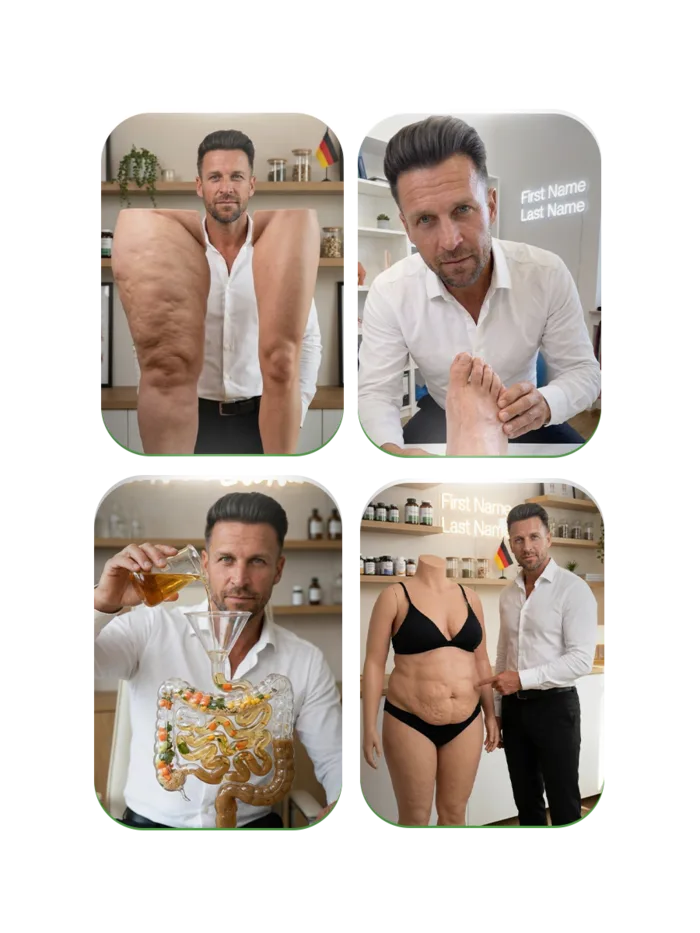
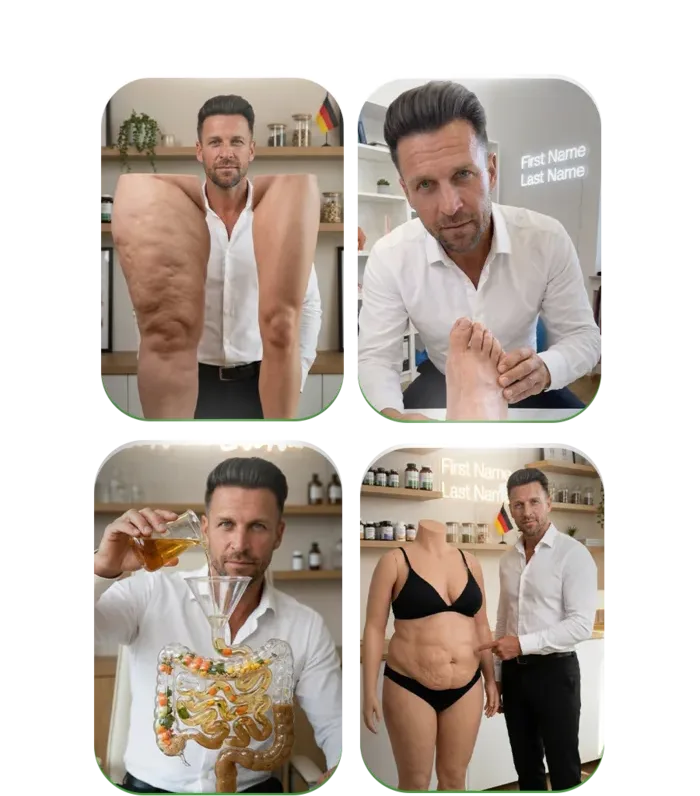
Stand 60b6c16: Entwurf B auf der Startseite: vier Boxen mit Zahl, Leistung und großer freigestellter Grafik

diff --git a/index.html b/index.html
@@ -145,11 +145,35 @@
       </a>
     </section><!--LIVE:ende-->
 
-    <section class="stats stats-oben" id="zahlen" aria-labelledby="zahlen-titel">
+    <section class="zahlen" id="zahlen" aria-labelledby="zahlen-titel">
       <h2 id="zahlen-titel" class="zahlen-titel">Unsere Zahlen</h2>
-      <div class="stat reveal"><strong class="verlauf">900 Mio.+</strong><p>Aufrufe für Kunden</p></div>
-      <div class="stat reveal"><strong class="verlauf-mint">3 Mio.+</strong><p>neu gewonnene Follower für Kunden</p></div>
-      <div class="stat reveal"><strong class="verlauf">3.000+</strong><p>Produktionen für Creator, Marken und Unternehmen</p></div>
+      <div class="zahlen-boxen">
+        <article class="reveal">
+          <img src="assets/module/schnitt-frei.webp" width="700" height="919" alt="Schnittprogramm mit Zeitleiste, Untertiteln und B-Roll-Spuren" loading="lazy" decoding="async">
+          <strong>3.000+</strong>
+          <h3>Produktionen</h3>
+          <p>Dreh, Schnitt und feste Formate für Creator, Marken und Unternehmen.</p>
+        </article>
+        <article class="reveal">
+          <img src="assets/module/clips-frei.webp" width="700" height="796" alt="Vier Videoclips mit demselben Sprecher, ohne Dreh erzeugt" loading="lazy" decoding="async">
+          <strong>900 Mio.+</strong>
+          <h3>Aufrufe für Kunden</h3>
+          <p>Reels, TikToks und Shorts, die der Algorithmus wirklich ausspielt.</p>
+        </article>
+        <article class="reveal">
+          <img src="assets/module/dm-chat-frei.webp" width="600" height="693" alt="Chatverlauf: die KI beantwortet eine Anfrage und bestätigt einen Termin" loading="lazy" decoding="async">
+          <strong>3 Mio.+</strong>
+          <h3>Neue Follower</h3>
+          <p>Aus Zuschauern werden Anfragen: DM-Setting mit KI und Terminbuchung.</p>
+        </article>
+        <article class="reveal">
+          <img src="assets/module/ablauf-frei.webp" width="700" height="537" alt="Sechs nummerierte Schritte von der Aufnahme bis zum gebuchten Termin" loading="lazy" decoding="async">
+          <strong>6 Schritte</strong>
+          <h3>Vom Video zum Termin</h3>
+          <p>Aufnehmen, schneiden, posten, antworten, qualifizieren, buchen.</p>
+        </article>
+      </div>
+      <p class="quelle">Zahlen laut Referenzportfolio 2026, Aufrufe fortlaufend hochgerechnet.</p>
     </section>
 
     <section class="viral" id="viral" aria-labelledby="viral-title">
@@ -399,19 +423,19 @@
         <li><b>Du gibst frei, wir posten</b><span>Auf Instagram, TikTok und YouTube, in festem Rhythmus.</span></li>
       </ol>
       <div class="ki-grid" tabindex="0" role="region" aria-label="Leistungen der KI-Abteilung">
-        <article class="ki-karte reveal"><img class="ki-bild" src="assets/module/clips-frei.webp" width="700" height="1200" alt="Vier Videoclips mit demselben Sprecher, komplett ohne Dreh erzeugt" loading="lazy" decoding="async"><h3>KI-Videos ohne Kamera</h3>
+        <article class="ki-karte reveal"><img class="ki-bild" src="assets/module/clips-frei.webp" width="700" height="796" alt="Vier Videoclips mit demselben Sprecher, komplett ohne Dreh erzeugt" loading="lazy" decoding="async"><h3>KI-Videos ohne Kamera</h3>
           <p>Mit KI-Sprecherstimme, Avatar, Animation und B-Roll. Stil und Stimme passen zu deiner Marke.</p>
           <ul><li>Werbeanzeigen und Produktclips</li><li>Erklärvideos für dein Angebot</li><li>Serienformate ohne Gesicht</li></ul>
         </article>
-        <article class="ki-karte reveal"><img class="ki-bild" src="assets/module/dm-chat-frei.webp" width="700" height="1200" alt="Chatverlauf: die KI beantwortet eine Anfrage und bestätigt einen Termin am Donnerstag" loading="lazy" decoding="async"><h3>DM-Setting mit KI</h3>
+        <article class="ki-karte reveal"><img class="ki-bild" src="assets/module/dm-chat-frei.webp" width="600" height="693" alt="Chatverlauf: die KI beantwortet eine Anfrage und bestätigt einen Termin am Donnerstag" loading="lazy" decoding="async"><h3>DM-Setting mit KI</h3>
           <p>Kommentare und Nachrichten werden in Sekunden beantwortet und vorqualifiziert.</p>
           <ul><li>Antwort rund um die Uhr</li><li>3 bis 5 Fragen zur Qualifizierung</li><li>Terminlink für alle, die passen</li></ul>
         </article>
-        <article class="ki-karte reveal"><img class="ki-bild" src="assets/module/schnitt-frei.webp" width="700" height="1200" alt="Schnittprogramm mit Zeitleiste, Untertiteln und B-Roll-Spuren" loading="lazy" decoding="async"><h3>Content-Automatisierung</h3>
+        <article class="ki-karte reveal"><img class="ki-bild" src="assets/module/schnitt-frei.webp" width="700" height="919" alt="Schnittprogramm mit Zeitleiste, Untertiteln und B-Roll-Spuren" loading="lazy" decoding="async"><h3>Content-Automatisierung</h3>
           <p>Aus einem Video werden Posts, Untertitel, Newsletter und Blogartikel.</p>
           <ul><li>Transkription und Untertitel</li><li>Texte für LinkedIn und Newsletter</li><li>Clips aus langen Videos</li></ul>
         </article>
-        <article class="ki-karte reveal"><img class="ki-bild" src="assets/module/ablauf-frei.webp" width="700" height="1200" alt="Sechs nummerierte Schritte von der Aufnahme bis zum gebuchten Termin" loading="lazy" decoding="async"><h3>Automatisierte Abläufe</h3>
+        <article class="ki-karte reveal"><img class="ki-bild" src="assets/module/ablauf-frei.webp" width="700" height="537" alt="Sechs nummerierte Schritte von der Aufnahme bis zum gebuchten Termin" loading="lazy" decoding="async"><h3>Automatisierte Abläufe</h3>
           <p>Anfragen landen automatisch in deiner Pipeline, mit Terminbuchung und Erinnerung.</p>
           <ul><li>Lead-Pipeline mit Quelle pro Video</li><li>Terminbuchung mit Erinnerungen</li><li>Monatsreport mit Anfragen und Abschlüssen</li></ul>
         </article>
@@ -470,7 +494,7 @@
         <div class="plan-zeile r4"><b>Schnitt</b><div class="bahn"><span class="balken">Schnitt &amp; Feedback</span></div></div>
         <div class="plan-zeile r5"><b>Posting</b><div class="bahn"><span class="balken">Veröffentlichen &amp; lernen</span></div></div>
       </div><!--ABLAUF:ende-->
-          <img class="ablauf-bild" src="assets/module/ablauf-frei.webp" width="700" height="933" alt="Sechs nummerierte Schritte: aufnehmen, schneiden, veröffentlichen, Anfrage, Nachricht beantworten, Termin buchen" loading="lazy" decoding="async">
+          <img class="ablauf-bild" src="assets/module/ablauf-frei.webp" width="700" height="537" alt="Sechs nummerierte Schritte: aufnehmen, schneiden, veröffentlichen, Anfrage, Nachricht beantworten, Termin buchen" loading="lazy" decoding="async">
     </section>
 
     <section class="nf-block" id="wer" aria-labelledby="wer-title">

diff --git a/entwuerfe/index.html b/entwuerfe/index.html
@@ -29,19 +29,19 @@
       </div>
       <div class="a-boxen">
         <article>
-          <img src="/assets/module/schnitt-frei.webp" width="700" height="1200" alt="Schnittprogramm mit Zeitleiste">
+          <img src="/assets/module/schnitt-frei.webp" width="700" height="919" alt="Schnittprogramm mit Zeitleiste">
           <h3>Produktion</h3>
           <p>Strategie, Skript, Drehtag, Schnitt für Instagram, TikTok und YouTube.</p>
           <ul><li>Dreh bei dir vor Ort</li><li>Hooks und Skripte</li><li>Schnitt mit Untertiteln</li></ul>
         </article>
         <article>
-          <img src="/assets/module/clips-frei.webp" width="700" height="1200" alt="Vier Videoclips ohne Dreh">
+          <img src="/assets/module/clips-frei.webp" width="700" height="796" alt="Vier Videoclips ohne Dreh">
           <h3>KI-Videos</h3>
           <p>Videos ohne Kamera, mit Stimme, Avatar und B-Roll in deinem Stil.</p>
           <ul><li>Werbeanzeigen und Produktclips</li><li>Erklärvideos</li><li>Serien ohne Gesicht</li></ul>
         </article>
         <article>
-          <img src="/assets/module/dm-chat-frei.webp" width="700" height="1200" alt="Chat mit Terminbuchung">
+          <img src="/assets/module/dm-chat-frei.webp" width="600" height="693" alt="Chat mit Terminbuchung">
           <h3>Anfragen und Termine</h3>
           <p>DM-Setting mit KI, Terminbuchung und Pipeline mit Quelle je Video.</p>
           <ul><li>Antwort in Sekunden</li><li>Qualifizierung in 3 bis 5 Fragen</li><li>Terminlink für passende Anfragen</li></ul>
@@ -54,25 +54,25 @@
       <p class="entwurf-marke">Entwurf B · Vier Boxen, Zahl steht in der Box</p>
       <div class="b-boxen">
         <article>
-          <img src="/assets/module/schnitt-frei.webp" width="700" height="1200" alt="Schnittprogramm mit Zeitleiste">
+          <img src="/assets/module/schnitt-frei.webp" width="700" height="919" alt="Schnittprogramm mit Zeitleiste">
           <strong>3.000+</strong>
           <h3>Produktionen</h3>
           <p>Dreh, Schnitt und Formate für Creator, Marken und Unternehmen.</p>
         </article>
         <article>
-          <img src="/assets/module/clips-frei.webp" width="700" height="1200" alt="Vier Videoclips ohne Dreh">
+          <img src="/assets/module/clips-frei.webp" width="700" height="796" alt="Vier Videoclips ohne Dreh">
           <strong>900 Mio.+</strong>
           <h3>Aufrufe für Kunden</h3>
           <p>Reels, TikToks und Shorts, die im Feed ausgespielt werden.</p>
         </article>
         <article>
-          <img src="/assets/module/dm-chat-frei.webp" width="700" height="1200" alt="Chat mit Terminbuchung">
+          <img src="/assets/module/dm-chat-frei.webp" width="600" height="693" alt="Chat mit Terminbuchung">
           <strong>24/7</strong>
           <h3>DM-Setting mit KI</h3>
           <p>Jede Anfrage wird sofort beantwortet und qualifiziert.</p>
         </article>
         <article>
-          <img src="/assets/module/ablauf-frei.webp" width="700" height="1200" alt="Sechs Schritte von der Aufnahme bis zum Termin">
+          <img src="/assets/module/ablauf-frei.webp" width="700" height="537" alt="Sechs Schritte von der Aufnahme bis zum Termin">
           <strong>6 Schritte</strong>
           <h3>Vom Video zum Termin</h3>
           <p>Aufnehmen, schneiden, posten, antworten, qualifizieren, buchen.</p>
@@ -92,10 +92,10 @@
           <p class="c-quelle">Laut Referenzportfolio 2026</p>
         </div>
         <div class="c-boxen">
-          <article><img src="/assets/module/schnitt-frei.webp" width="700" height="1200" alt="Schnittprogramm"><div><h3>Dreh und Schnitt</h3><p>Ein Drehtag, fertige Videos für drei Plattformen.</p></div></article>
-          <article><img src="/assets/module/clips-frei.webp" width="700" height="1200" alt="Vier Clips"><div><h3>KI-Videos</h3><p>Ohne Kamera, mit Stimme und Avatar in deinem Stil.</p></div></article>
-          <article><img src="/assets/module/dm-chat-frei.webp" width="700" height="1200" alt="Chat mit Terminbuchung"><div><h3>DM-Setting</h3><p>Antwort in Sekunden, Termin direkt gebucht.</p></div></article>
-          <article><img src="/assets/module/ablauf-frei.webp" width="700" height="1200" alt="Sechs Schritte"><div><h3>Ablauf</h3><p>Sechs Schritte vom Video bis zum Termin im Kalender.</p></div></article>
+          <article><img src="/assets/module/schnitt-frei.webp" width="700" height="919" alt="Schnittprogramm"><div><h3>Dreh und Schnitt</h3><p>Ein Drehtag, fertige Videos für drei Plattformen.</p></div></article>
+          <article><img src="/assets/module/clips-frei.webp" width="700" height="796" alt="Vier Clips"><div><h3>KI-Videos</h3><p>Ohne Kamera, mit Stimme und Avatar in deinem Stil.</p></div></article>
+          <article><img src="/assets/module/dm-chat-frei.webp" width="600" height="693" alt="Chat mit Terminbuchung"><div><h3>DM-Setting</h3><p>Antwort in Sekunden, Termin direkt gebucht.</p></div></article>
+          <article><img src="/assets/module/ablauf-frei.webp" width="700" height="537" alt="Sechs Schritte"><div><h3>Ablauf</h3><p>Sechs Schritte vom Video bis zum Termin im Kalender.</p></div></article>
         </div>
       </div>
     </section>

diff --git a/funnel.css b/funnel.css
@@ -837,9 +837,23 @@ body:has([data-branchen-filter]) .lst-anwendung dd{color:#e6e6ec;font-size:.98re
 .fehlerseite-links{display:flex;flex-wrap:wrap;gap:12px;margin-top:8px}
 
 /* Alis Modulgrafiken in der KI-Abteilung und im Ablauf */
-.ki-karte .ki-bild{width:100%;height:300px;object-fit:contain;object-position:center bottom;margin:-10px 0 18px;filter:drop-shadow(0 18px 40px rgba(0,0,0,.55))}
+.ki-karte .ki-bild{width:100%;height:210px;object-fit:contain;object-position:center bottom;margin:-10px 0 18px;filter:drop-shadow(0 18px 40px rgba(0,0,0,.55))}
 .roadmap{position:relative}
 .ablauf-bild{display:block;width:min(280px,70%);height:auto;margin:28px auto 0}
 .zahlen-titel{width:var(--wrap);margin:0 auto 22px;font-size:clamp(1.6rem,3vw,2.2rem);letter-spacing:-.03em}
 
-@media (max-width:640px){.ki-karte .ki-bild{height:230px}}
+@media (max-width:640px){.ki-karte .ki-bild{height:180px}}
+
+/* Zahlen und Leistungen in vier Boxen (Entwurf B, Alis Auswahl) */
+.zahlen{width:var(--wrap);margin:0 auto;padding:56px 0 40px}
+.zahlen-titel{font-size:clamp(1.8rem,3.4vw,2.6rem);letter-spacing:-.035em;margin-bottom:28px}
+.zahlen-boxen{display:grid;grid-template-columns:repeat(4,minmax(0,1fr));gap:16px}
+.zahlen-boxen article{padding:24px 22px 26px;border:1px solid var(--line);border-radius:22px;background:radial-gradient(ellipse 95% 55% at 50% 0%,rgba(168,117,255,.13),transparent 70%),#0b0b0f;text-align:center;transition:border-color .2s,transform .2s}
+.zahlen-boxen article:hover{border-color:var(--line-2);transform:translateY(-2px)}
+.zahlen-boxen img{display:block;width:100%;height:230px;object-fit:contain;margin:0 0 18px;filter:drop-shadow(0 22px 48px rgba(0,0,0,.65))}
+.zahlen-boxen strong{display:block;font-size:clamp(1.8rem,3.2vw,2.5rem);font-weight:760;letter-spacing:-.045em;color:var(--koralle-hell);line-height:1.05}
+.zahlen-boxen h3{margin-top:6px;font-size:1.12rem;letter-spacing:-.01em}
+.zahlen-boxen p{margin-top:10px;color:var(--muted);font-size:.9rem;line-height:1.45}
+.zahlen .quelle{margin-top:20px}
+@media (max-width:1060px){.zahlen-boxen{grid-template-columns:repeat(2,minmax(0,1fr))}.zahlen-boxen img{height:250px}}
+@media (max-width:640px){.zahlen{padding:36px 0 24px}.zahlen-boxen{grid-template-columns:1fr;gap:12px}.zahlen-boxen img{height:190px}}
